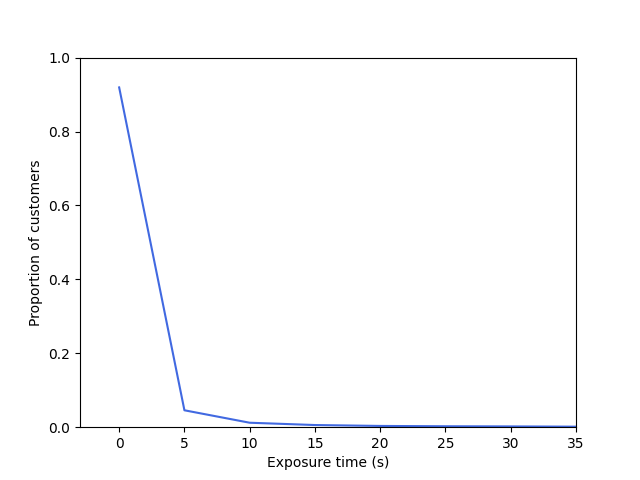
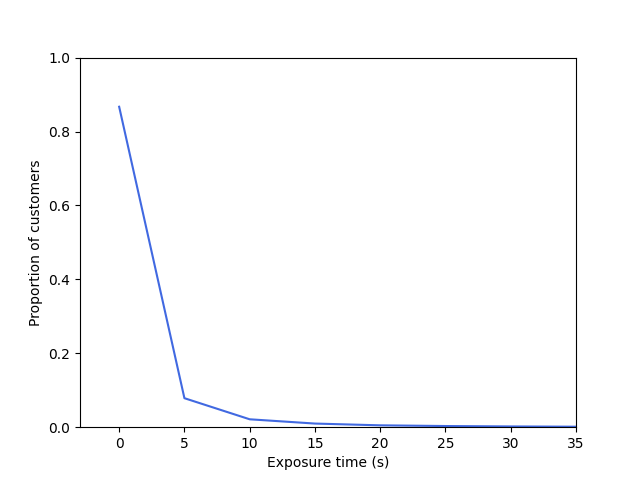
Doubled arrival prob

Changed region(s): [[0.25, 0.625, 0.6875, 0.9062], [0.1875, 0.1875, 0.2188, 0.4062], [0.2188, 0.4062, 0.25, 0.5625]]

diff --git a/covid_spread_model/config.py b/covid_spread_model/config.py
@@ -9,7 +9,7 @@ DEFAULT_CONFIG = {
     'customers': {
         'dataset_path': './dataset/aisle_vectors.csv',
         'arrival_gamma': 50,
-        'arrival_prob_scale': 1.0, # how busy the day is
+        'arrival_prob_scale': 2.0, # how busy the day is
         'item_wait_range': (1, 5),
         'till_wait_range': (1, 5)
     },

diff --git a/covid_spread_model/simulation.py b/covid_spread_model/simulation.py
@@ -246,7 +246,6 @@ class Simulation:
             for i in range(self.history.n_simulations)
         ]
         plt.hist(X, bins=20, color='cornflowerblue')
-        plt.xlim([0, 100])
         plt.xlabel('Number of new infections')
         plt.ylabel('Number of simulations')
         plt.show()
